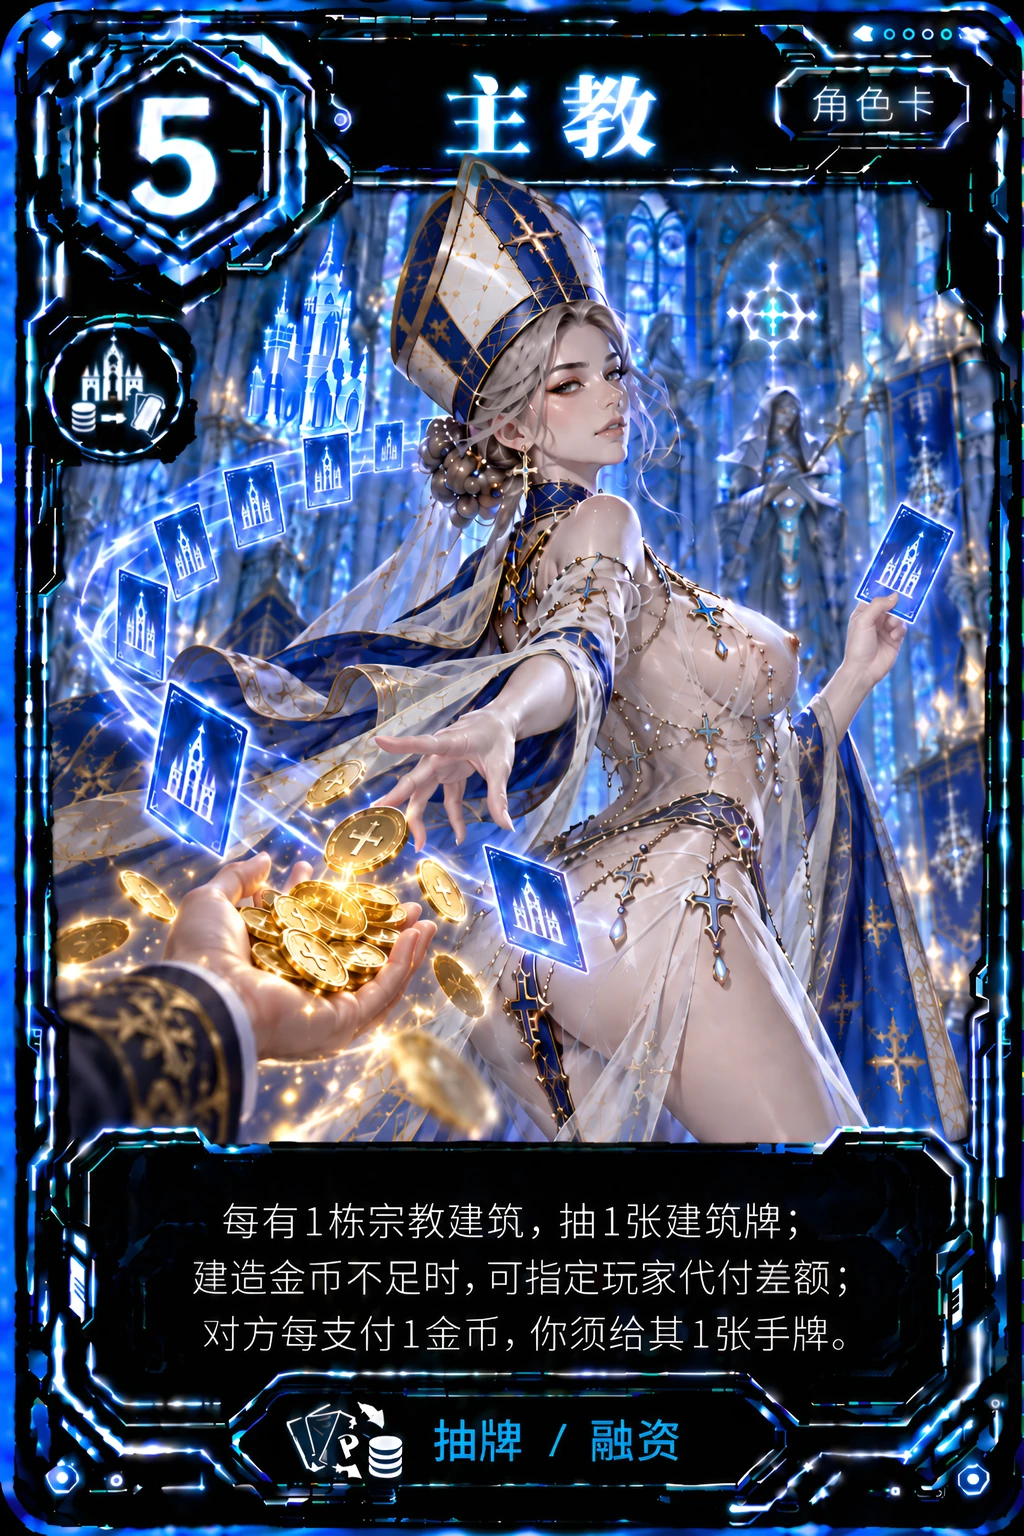
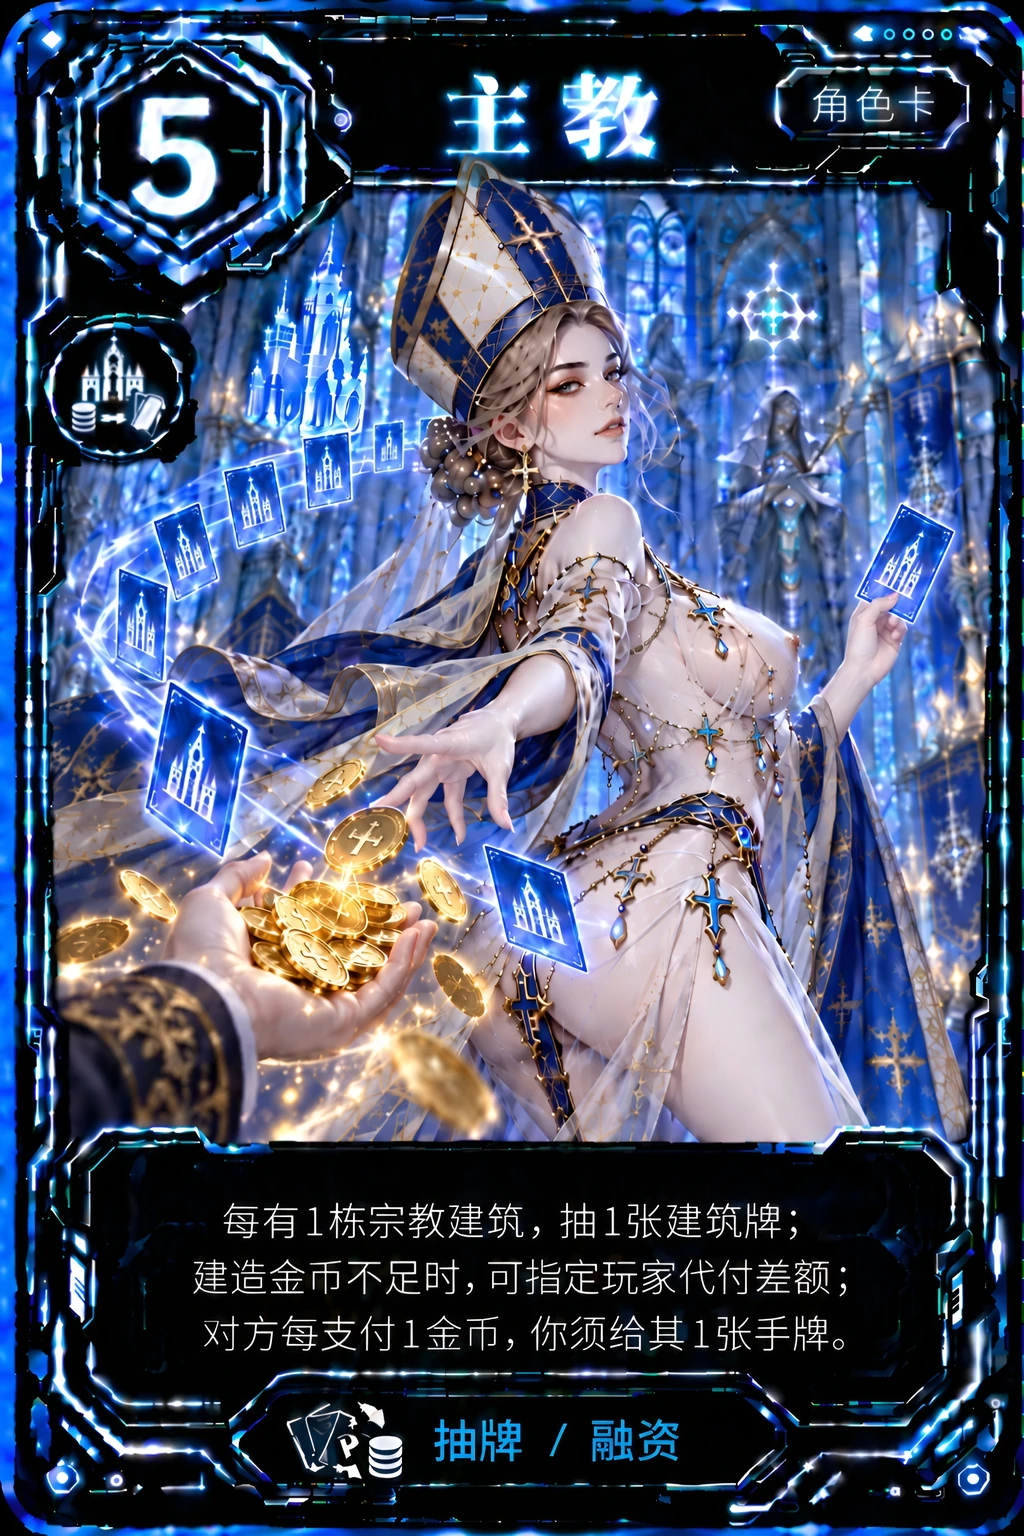
feat(neon): 再次更新主教角色卡图

diff --git a/public/app.js b/public/app.js
@@ -4172,7 +4172,7 @@
   window.__CitadelsApp = App;
   // PWA：支持从主屏幕/桌面以独立窗口启动；联机功能仍需网络连接服务器。
   if (typeof navigator !== 'undefined' && navigator.serviceWorker && location.protocol !== 'file:') {
-    navigator.serviceWorker.register('./sw.js?v=13', { scope: './' }).then(registration => {
+    navigator.serviceWorker.register('./sw.js?v=14', { scope: './' }).then(registration => {
       // GitHub Pages 上的 PWA 可能长时间保持旧 worker，启动时主动检查一次新版本。
       registration.update().catch(() => {});
       registration.addEventListener('updatefound', () => {

diff --git a/public/themes/neon/manifest.js b/public/themes/neon/manifest.js
@@ -29,7 +29,9 @@
       (folder === 'roles' && (key === 'blackmailer' || key === 'magician' || key === 'wizard' || key === 'bishop'));
     const version = folder === 'roles' && key === 'magician'
       ? '?v=3'
-      : (versioned ? '?v=2' : '');
+      : (folder === 'roles' && key === 'bishop'
+        ? '?v=3'
+        : (versioned ? '?v=2' : ''));
     return {
       thumb: base + folder + '/thumb/' + key + '.webp' + version,
       full: base + folder + '/full/' + key + '.webp' + version

diff --git a/test/theme-assets.js b/test/theme-assets.js
@@ -61,7 +61,7 @@ if (!/wizard\.webp\?v=2$/.test(wizard.thumb) || !/wizard\.webp\?v=2$/.test(wizar
   throw new Error('法师更新卡图缺少缓存版本标记');
 }
 const bishop = manifest.cards.roles.bishop;
-if (!/bishop\.webp\?v=2$/.test(bishop.thumb) || !/bishop\.webp\?v=2$/.test(bishop.full)) {
+if (!/bishop\.webp\?v=3$/.test(bishop.thumb) || !/bishop\.webp\?v=3$/.test(bishop.full)) {
   throw new Error('主教更新卡图缺少缓存版本标记');
 }
 

diff --git a/public/index.html b/public/index.html
@@ -407,7 +407,7 @@
   </div>
 </div>
 
-<script src="./themes/neon/manifest.js?v=8"></script>
+<script src="./themes/neon/manifest.js?v=9"></script>
 <script src="./themes/theme-manager.js?v=2"></script>
 <script src="./src/cards.js?v=4"></script>
 <script src="./src/engine.js?v=16"></script>

diff --git a/public/sw.js b/public/sw.js
@@ -1,4 +1,4 @@
-const CACHE_NAME = 'citadels-shell-v23';
+const CACHE_NAME = 'citadels-shell-v24';
 const APP_SHELL = [
   './', './index.html', './manifest.json', './style.css',
   './themes/neon/theme.css', './themes/neon/manifest.js', './themes/theme-manager.js',
